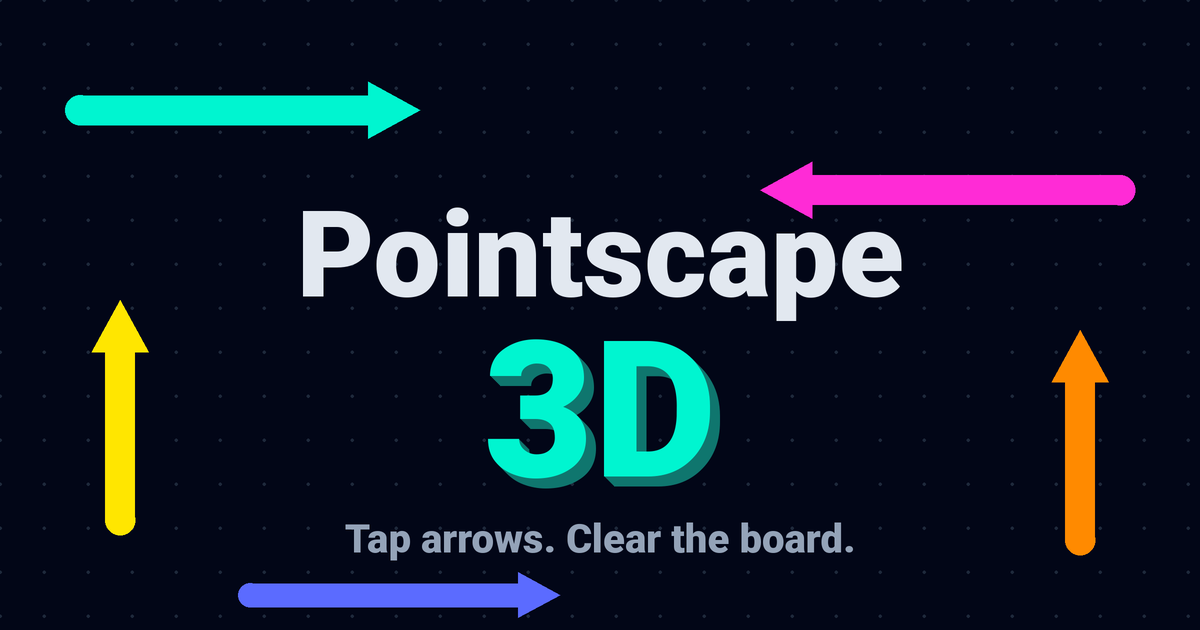
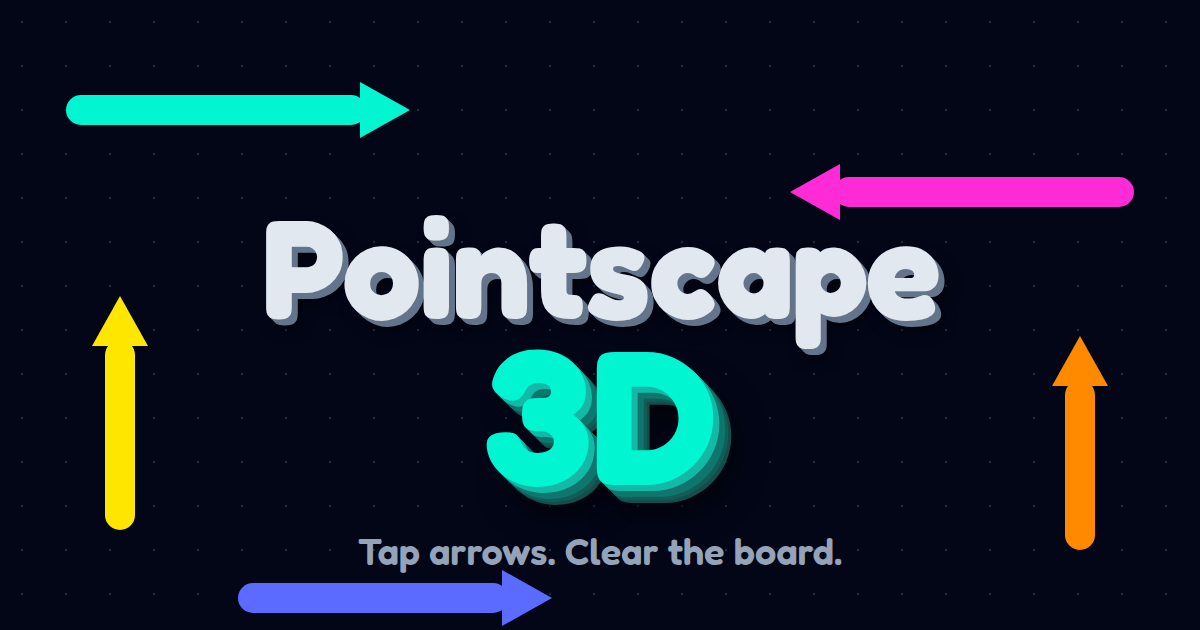
fix(ui): redraw share image in Fredoka, drop dead tabular-nums
Fredoka has no tabular figures. The Arrows left count gets a min width instead.

diff --git a/src/ui/DifficultyScreen.tsx b/src/ui/DifficultyScreen.tsx
@@ -57,7 +57,7 @@ export function DifficultyScreen({
                   />
                   {d.name}
                 </h2>
-                <span className="text-[15px] font-semibold text-slate-300 tabular-nums">
+                <span className="text-[15px] font-semibold text-slate-300">
                   {side}×{side} grid
                 </span>
               </div>
@@ -90,7 +90,7 @@ export function DifficultyScreen({
                               L
                             </small>
                           </span>
-                          <span className="text-[13px] font-bold tabular-nums">
+                          <span className="text-[13px] font-bold">
                             {cleared}/{LEVELS_PER_TRACK}
                           </span>
                           <span className="mt-0.5 h-1.5 w-7/10 overflow-hidden rounded-full bg-ink/25">

diff --git a/src/ui/GameScreen.tsx b/src/ui/GameScreen.tsx
@@ -343,7 +343,9 @@ export function GameScreen({
           <div className="w-36 rounded-2xl p-2.5 text-sm hud-card sm:w-44">
             <div className="flex items-end justify-between">
               <span className="text-xs opacity-80">Arrows left</span>
-              <b className="text-2xl leading-none sm:text-3xl">{left}</b>
+              <b className="min-w-12 text-right text-2xl leading-none sm:text-3xl">
+                {left}
+              </b>
             </div>
             <div className="mt-2 h-2 overflow-hidden rounded-full bg-slate-500/40">
               <div
